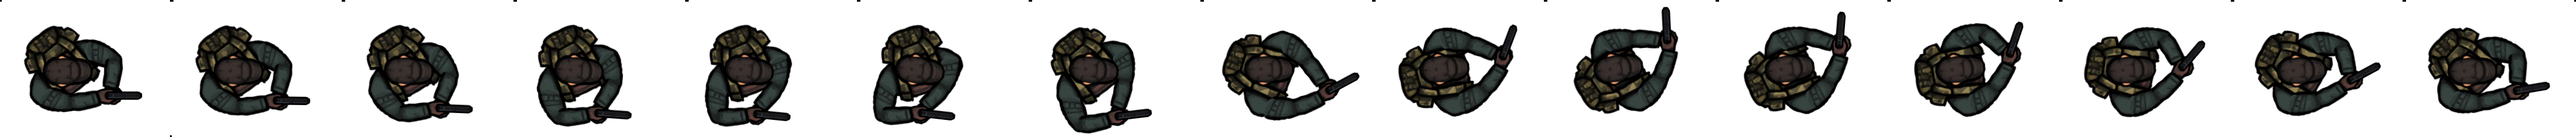
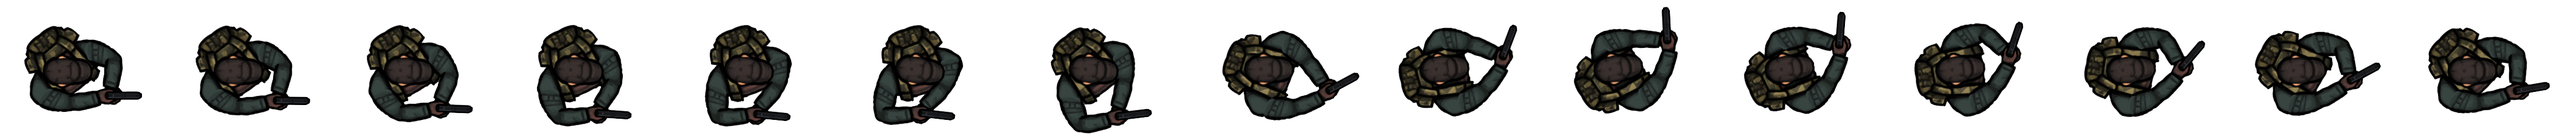
fix survivor-meleeattack_handgun.png

Changed region(s): [[0.6222, 0.2042, 0.6533, 0.2333]]

diff --git a/PinkFerret/Source/Player.cpp b/PinkFerret/Source/Player.cpp
@@ -12,7 +12,7 @@ Player::Player(float X, float Y)
 	sprite.setTextureRect(IntRect(0, 0, 260, 230));
 
 	meleeattack_image.loadFromFile("Media/survivor/handgun/survivor-meleeattack_handgun.png");
-	meleeattack_image.createMaskFromColor(Color(255, 255, 255));
+	meleeattack_image.createMaskFromColor(Color(255, 0, 0));
 	meleeattack_texture.loadFromImage(meleeattack_image);
 
 
